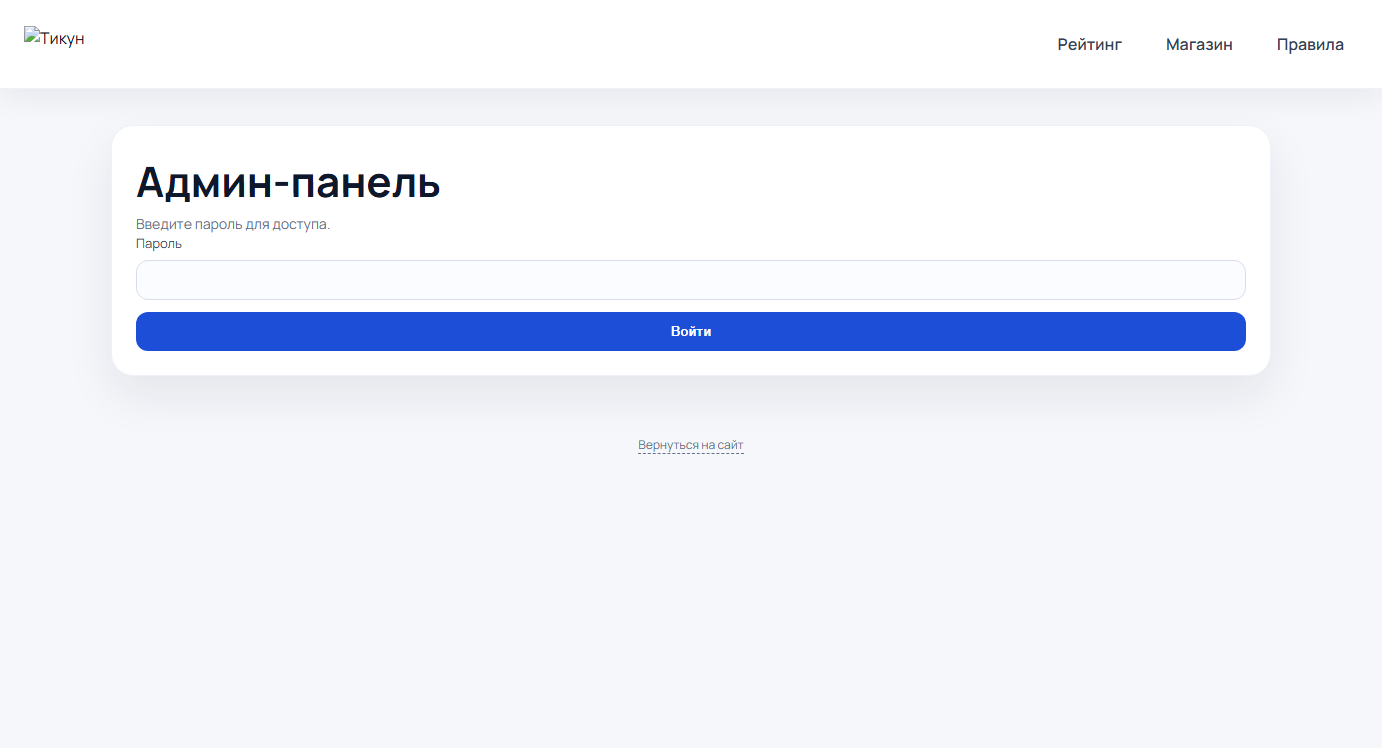
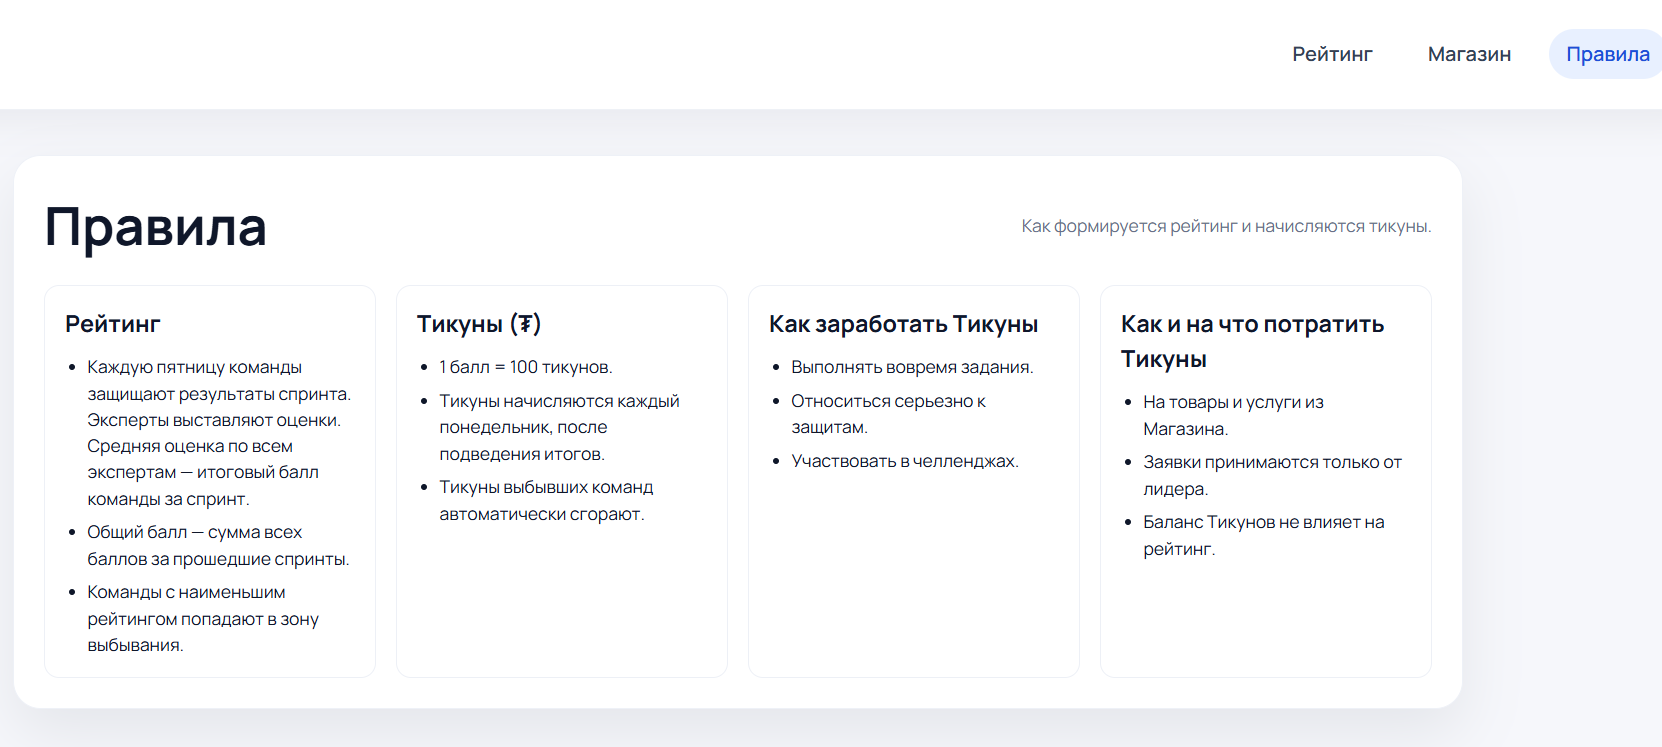
feat: добавлены скриншоты Тикун.Банк (правила + админка)

diff --git a/portfolio.html b/portfolio.html
@@ -669,7 +669,7 @@
           "Realtime-обновления: рейтинг и баланс обновляются без перезагрузки страницы",
           "Serverless на Vercel: Node.js API-функции, масштабирование без администрирования сервера",
         ],
-        screenshots: [],
+        screenshots: ["portfolio-img/tikun-rules.png", "portfolio-img/tikun-admin.png"],
       },
     ];
 